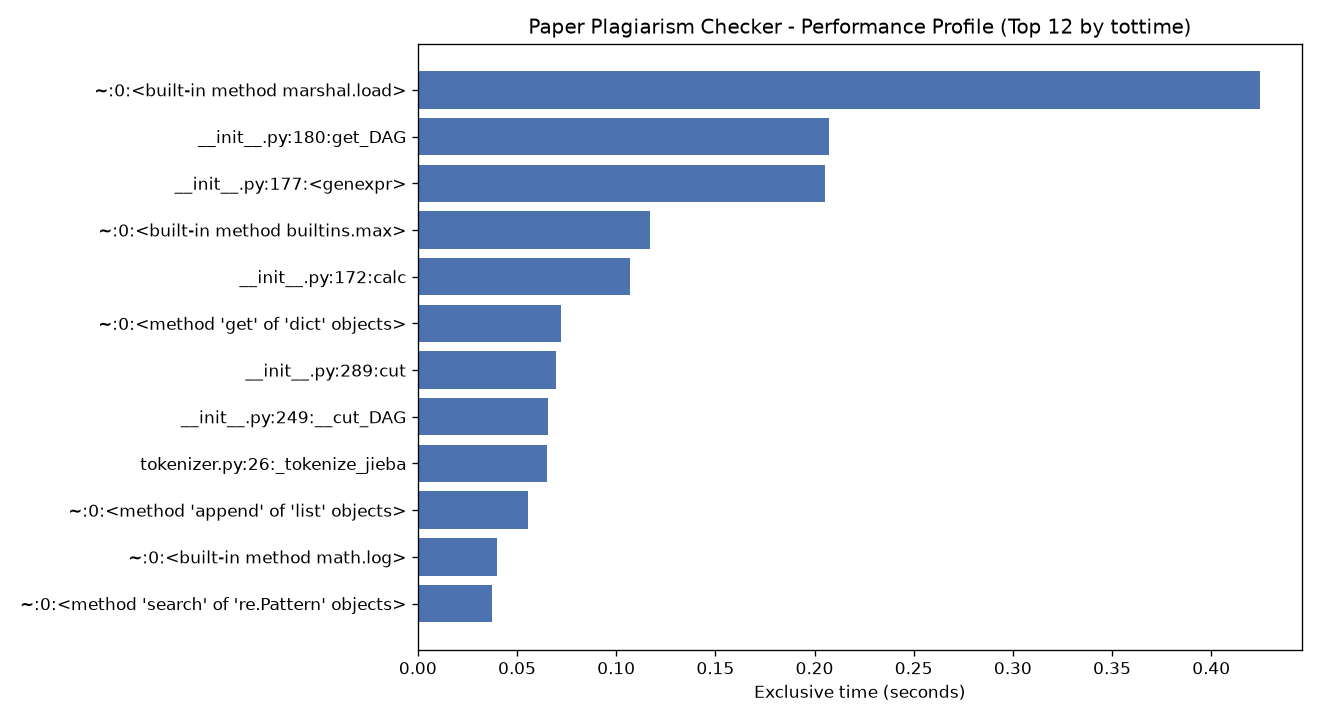
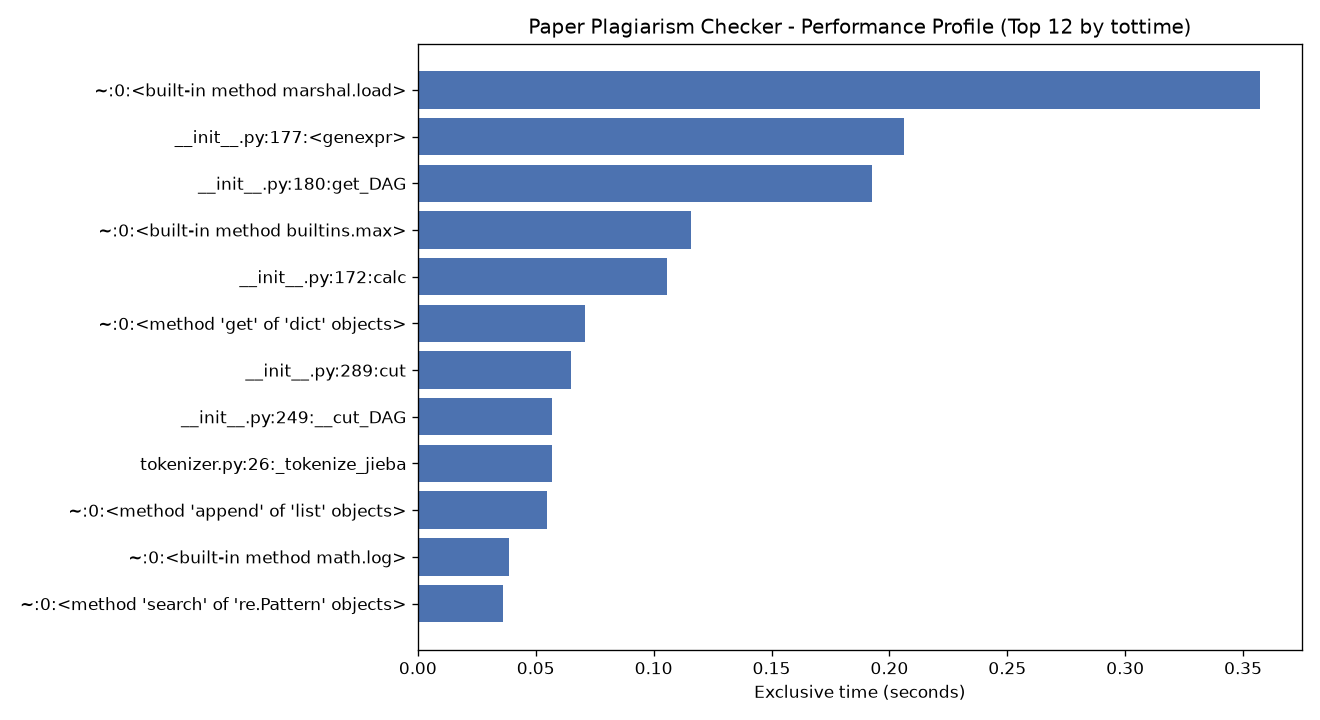
refactor: 将性能分析脚本移至根目录，消除 flake8/pylint 告警

diff --git a/analyze.py b/analyze.py
@@ -1,27 +1,23 @@
 """性能分析脚本（开发阶段使用，非程序运行依赖）。
 
 使用 cProfile 对「读取 -> 分词 -> 相似度计算 -> 写出」全流程做性能采样，
-找出消耗最大的函数，并用 matplotlib 生成性能分析图 profile_result.png。
+找出消耗最大的函数，并用 matplotlib 生成性能分析图
+performance/profile_result.png。
 
-运行（已激活 venv）：
-    python performance/analyze.py
+运行（已激活 venv，在项目根目录执行）：
+    python analyze.py
 """
 
 import cProfile
 import pstats
-import sys
 from pathlib import Path
-
-# 将项目根目录加入导入路径，使脚本在任意工作目录下均可导入 plagiarism 包。
-ROOT_DIR = Path(__file__).resolve().parent.parent
-if str(ROOT_DIR) not in sys.path:
-    sys.path.insert(0, str(ROOT_DIR))
 
 from plagiarism import file_io, similarity
 
 HERE = Path(__file__).resolve().parent
-SAMPLES = HERE.parent / "samples"
-CHART_PATH = HERE / "profile_result.png"
+SAMPLES = HERE / "samples"
+CHART_PATH = HERE / "performance" / "profile_result.png"
+ANS_PATH = HERE / "performance" / "profile_ans.txt"
 
 
 def _make_large_text(base, repeat=200):
@@ -39,19 +35,15 @@ def run_pipeline(orig_text, copy_text, ans_path):
 
 def main():  # pylint: disable=too-many-locals
     """运行性能分析并生成图表。"""
-    orig_path = SAMPLES / "orig.txt"
-    copy_path = SAMPLES / "orig_add.txt"
-    ans_path = HERE / "profile_ans.txt"
-
-    base_orig = file_io.read_text(str(orig_path))
-    base_copy = file_io.read_text(str(copy_path))
+    base_orig = file_io.read_text(str(SAMPLES / "orig.txt"))
+    base_copy = file_io.read_text(str(SAMPLES / "orig_add.txt"))
     large_orig = _make_large_text(base_orig)
     large_copy = _make_large_text(base_copy)
 
     profiler = cProfile.Profile()
     profiler.enable()
     for _ in range(5):
-        run_pipeline(large_orig, large_copy, str(ans_path))
+        run_pipeline(large_orig, large_copy, str(ANS_PATH))
     profiler.disable()
 
     stats = pstats.Stats(profiler).sort_stats("cumulative")
@@ -79,13 +71,14 @@ def main():  # pylint: disable=too-many-locals
         ax.set_xlabel("Exclusive time (seconds)")
         ax.set_title("Paper Plagiarism Checker - Performance Profile (Top 12 by tottime)")
         fig.tight_layout()
+        CHART_PATH.parent.mkdir(parents=True, exist_ok=True)
         fig.savefig(str(CHART_PATH), dpi=120)
         print(f"性能分析图已生成: {CHART_PATH}")
     except Exception as exc:  # pylint: disable=broad-exception-caught,too-many-locals
         print(f"生成图表失败（文本统计已输出）: {exc}")
 
-    if ans_path.exists():
-        ans_path.unlink()
+    if ANS_PATH.exists():
+        ANS_PATH.unlink()
 
 
 if __name__ == "__main__":

diff --git a/README.md b/README.md
@@ -32,8 +32,8 @@ python main.py C:\tests\orig.txt C:\tests\orig_add.txt C:\tests\ans.txt
 │   ├── tokenizer.py        # 中文分词（jieba / 字符级降级）
 │   └── similarity.py       # 词频向量 + 余弦相似度
 ├── test_plagiarism.py      # 单元测试（unittest，30+ 断言）
+├── analyze.py              # cProfile 性能分析脚本
 ├── performance/
-│   ├── analyze.py          # cProfile 性能分析脚本
 │   └── profile_result.png  # 性能分析图（自动生成）
 ├── samples/                # 自建样例（orig / add / del / dis / rep）
 ├── requirements.txt        # 运行依赖
@@ -58,10 +58,10 @@ coverage report -m
 
 # 静态检查（应无任何警告）
 flake8 .
-pylint plagiarism main.py test_plagiarism.py performance/analyze.py
+pylint plagiarism main.py test_plagiarism.py analyze.py
 
 # 性能分析（生成 performance/profile_result.png）
-python performance/analyze.py
+python analyze.py
 ```
 
 当前结果：**单元测试全部通过 · 覆盖率 97%（核心包 100%）· flake8 0 警告 · pylint 10.00/10**。

diff --git a/REPORT.md b/REPORT.md
@@ -250,6 +250,6 @@ python -m pytest test_plagiarism.py -v
 # 代码质量（应无警告）
 flake8 . && pylint plagiarism main.py
 
-# 性能分析（生成 profile_result.png）
-python performance/analyze.py
+# 性能分析（生成 performance/profile_result.png）
+python analyze.py
 ```
